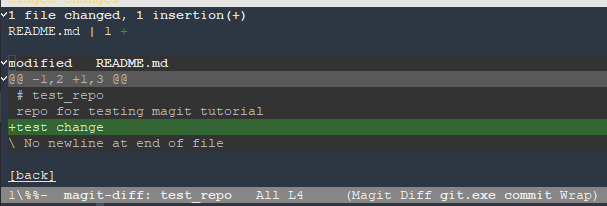
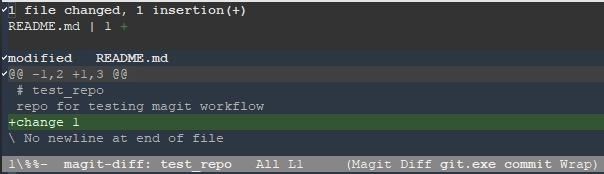
update pictures with new work flow

diff --git a/v1/blogs/magit.html b/v1/blogs/magit.html
@@ -118,7 +118,7 @@ Getting Started with Magit
 </p>
 <img alt="" src="../images/magit_snips/branch.png">
 <p>
-  Now in the magit buffer, you'll see that <code>head</code> is at the <code>test_0</code> branch at the last commit to the <code>master</code> branch that we created the <code>test</code> branch from, probably, <code>Initial Commit</code>. You'll also notice that the value of <code>Push</code> doesn't exist.  Repeat this procedure so that you have four branches, <code>master</code>, <code>test_0</code>, <code>test_1</code> and <code>test_2</code> and <code>head</code> is on <code>test_2</code>. 
+  Now in the magit buffer, you'll see that <code>head</code> is at the <code>test_0</code> branch at the last commit to the <code>master</code> branch that we created the <code>test</code> branch from, probably, <code>Initial Commit</code>. Repeat this procedure so that you have four branches, <code>master</code>, <code>test_0</code>, <code>test_1</code> and <code>test_2</code> and <code>head</code> is on <code>test_2</code>. 
 </p>
 <!-- <img alt="" src="../images/magit_snips/"> -->
 <p>
@@ -164,7 +164,7 @@ Getting Started with Magit
 -->
 <img alt="" src="../images/magit_snips/fetch.png">
 <p>
-  Now imagine that we want to work on the issuse that the test_0 and test_1 branches were intended for. The current state is that there is a new commit included in the local  test_2 branch, and the <code>remote master</code> and <code>test_1</code> branches, but not in either the local or remote <code>test_0</code> branches. This is where the upstream is useful.
+  Now imagine that we want to work on the issuse that the test_0 and test_1 branches were intended for. The current state is that there is a new commit included in the local  test_2 branch, and the <code>remote master</code> and <code>test_2</code> branches, but not in either the local or remote <code>test_0</code> and <code>test_1</code> branches. This is where the upstream is useful.
 </p>
 <!-- <img alt="" src="../images/magit_snips/"> -->
 <p>
@@ -176,6 +176,7 @@ Getting Started with Magit
 <p>
   Checkout <code>test_1</code> and pull from the upstream, setting that to <code>origin/master</code> using <code>F u</code>. Now use key <code>y</code> to view all of the branches. You should see that <code>master</code>  and <code>test_0</code> are on the initial commit while <code>test_1</code> and <code>test_2</code> are on the test commit you made.
 </p>
+<img alt="" src="../images/magit_snips/prop_changes.png">
 <p>
   Pull the commit into the local master and then pull the commit from local master into test_0 so that all branches are now at the same commit.
 </p>
